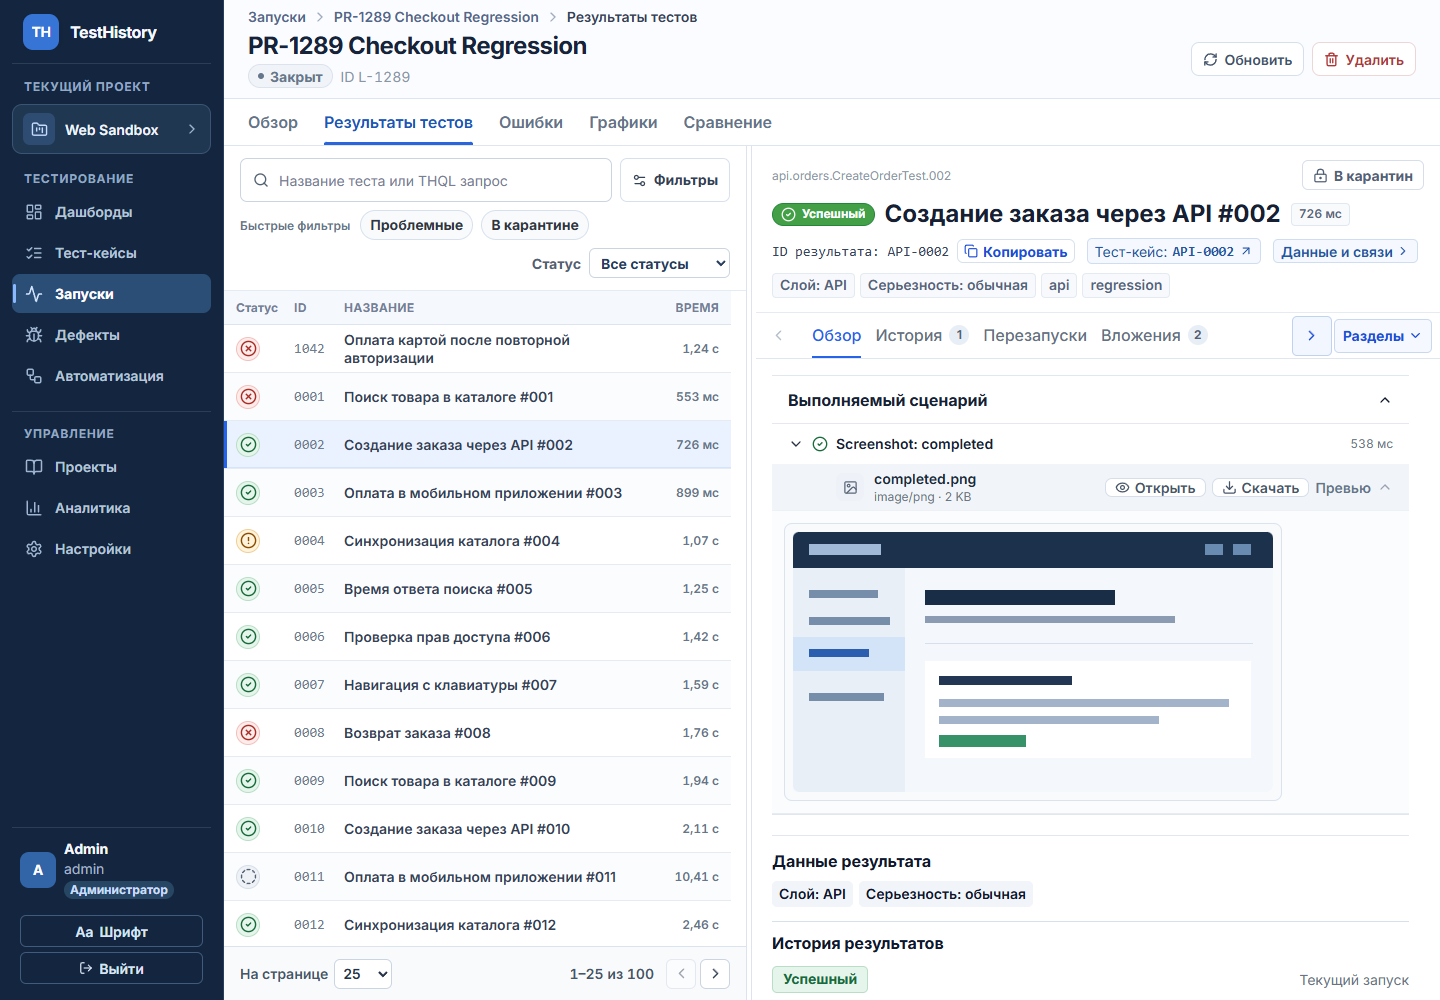
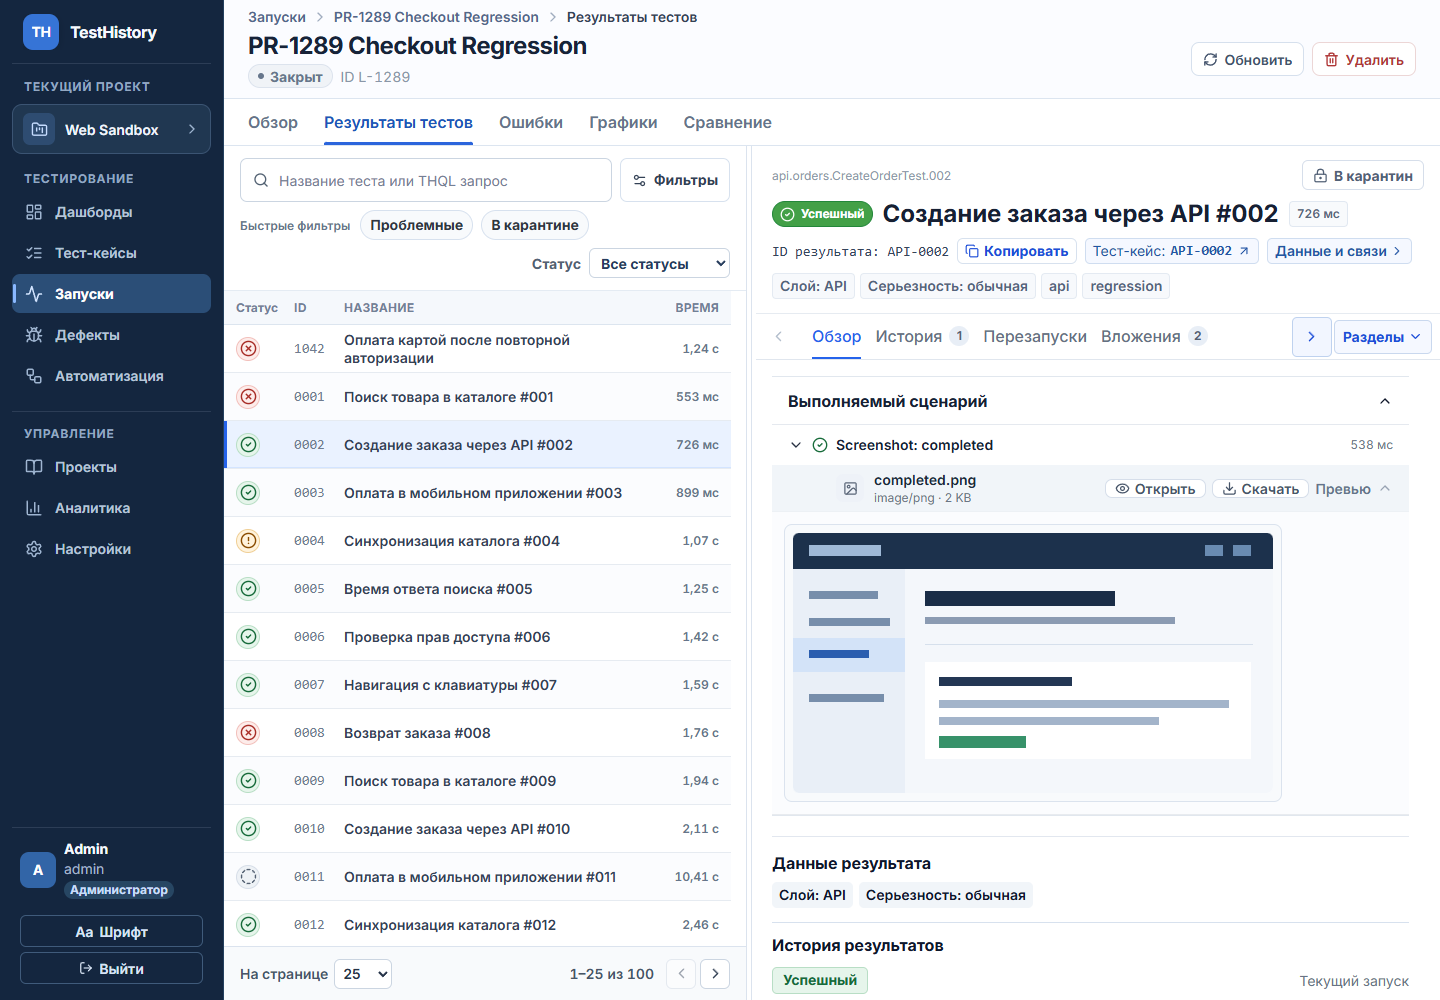
Align result header chips across typography sizes

diff --git a/apps/web/src/referenceScreens/LaunchesResultReportPolish.css b/apps/web/src/referenceScreens/LaunchesResultReportPolish.css
@@ -1,4 +1,10 @@
 .launches-reference-result-report {
+  --result-header-chip-height: max(
+    26px,
+    calc(var(--th-font-body) + 10px),
+    calc(var(--th-font-meta) + 10px)
+  );
+
   background: #ffffff;
 }
 
@@ -34,6 +40,23 @@
   flex: 0 0 auto;
   min-height: 30px;
   padding: 0 10px;
+}
+
+.launches-reference-result-report
+  :is(
+    .launches-reference-result-status-pill,
+    .launches-reference-result-duration,
+    .launches-reference-result-case-link,
+    .launches-reference-result-fields-link,
+    .launches-reference-result-context > span,
+    .reference-result-id-copy button
+  ) {
+  min-height: var(--result-header-chip-height);
+  box-sizing: border-box;
+  align-items: center;
+  padding-block: 0;
+  padding-inline: 7px;
+  line-height: 1.2;
 }
 
 .launches-reference-result-report .launches-reference-result-action:not(.is-muted) {
@@ -72,8 +95,6 @@
 }
 
 .launches-reference-result-headline .launches-reference-result-status-pill {
-  min-height: 23px;
-  padding: 0 8px;
   font-size: 11px;
   white-space: nowrap;
 }
@@ -83,7 +104,7 @@
   display: flex;
   flex-wrap: wrap;
   align-items: center;
-  gap: 6px 12px;
+  gap: 6px 8px;
 }
 
 .launches-reference-result-identifiers .reference-result-id-copy {
@@ -91,8 +112,6 @@
 }
 
 .launches-reference-result-identifiers .reference-result-id-copy button {
-  min-height: 24px;
-  padding: 0 6px;
   background: #ffffff;
   font-size: 11px;
 }
@@ -117,14 +136,12 @@
 }
 
 .launches-reference-result-case-link {
-  min-height: 26px;
   display: inline-flex;
   flex-wrap: wrap;
   align-items: center;
   gap: 3px 5px;
   border: 1px solid #cfddf0;
   border-radius: 5px;
-  padding: 3px 7px;
   background: #f5f8ff;
   color: #2255a4;
   cursor: pointer;
@@ -153,9 +170,7 @@
 }
 
 .launches-reference-result-report .launches-reference-result-duration {
-  min-height: 24px;
   border-radius: 4px;
-  padding: 0 8px;
   font-size: 12px;
 }
 
@@ -168,12 +183,10 @@
 }
 
 .launches-reference-result-context > span {
-  min-height: 23px;
   display: inline-flex;
   align-items: center;
   border: 1px solid #e4eaf2;
   border-radius: 4px;
-  padding: 2px 7px;
   background: #f7f9fc;
   color: #53647b;
   font-size: 11px;
@@ -182,13 +195,11 @@
 }
 
 .launches-reference-result-fields-link {
-  min-height: 24px;
   display: inline-flex;
   align-items: center;
   gap: 3px;
   border: 1px solid #cfddf0;
   border-radius: 5px;
-  padding: 2px 7px;
   background: #f5f8ff;
   color: #2255a4;
   cursor: pointer;

diff --git a/apps/web/src/referenceScreens/LaunchesResultDiagnostics.css b/apps/web/src/referenceScreens/LaunchesResultDiagnostics.css
@@ -8,9 +8,7 @@
 
 .launches-reference-result-report .launches-reference-result-duration {
   flex: 0 0 auto;
-  min-height: 23px;
   border: 1px solid #e1e8f1;
-  padding-inline: 7px;
   background: #f8fafc;
   color: #59687b;
   font-weight: 600;
